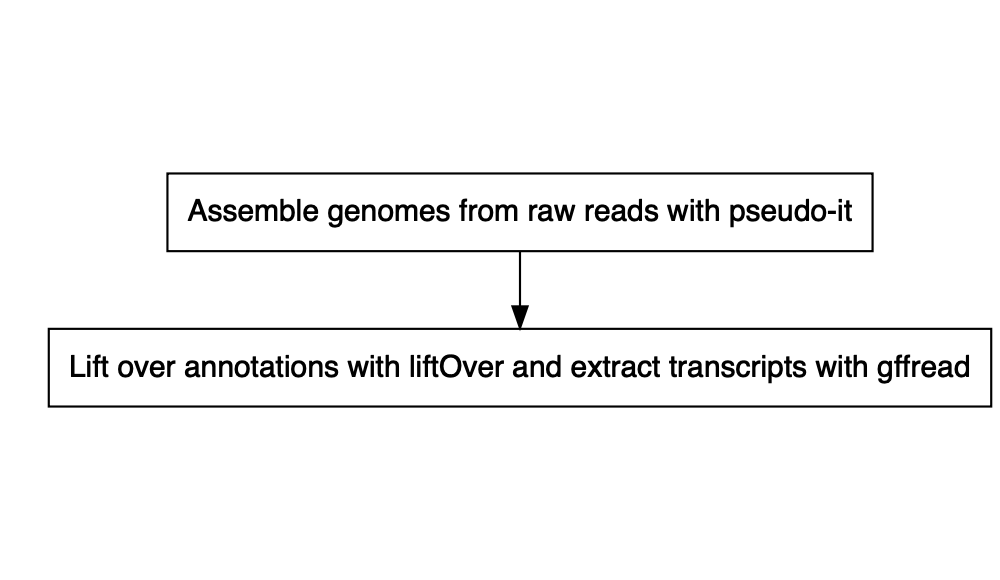
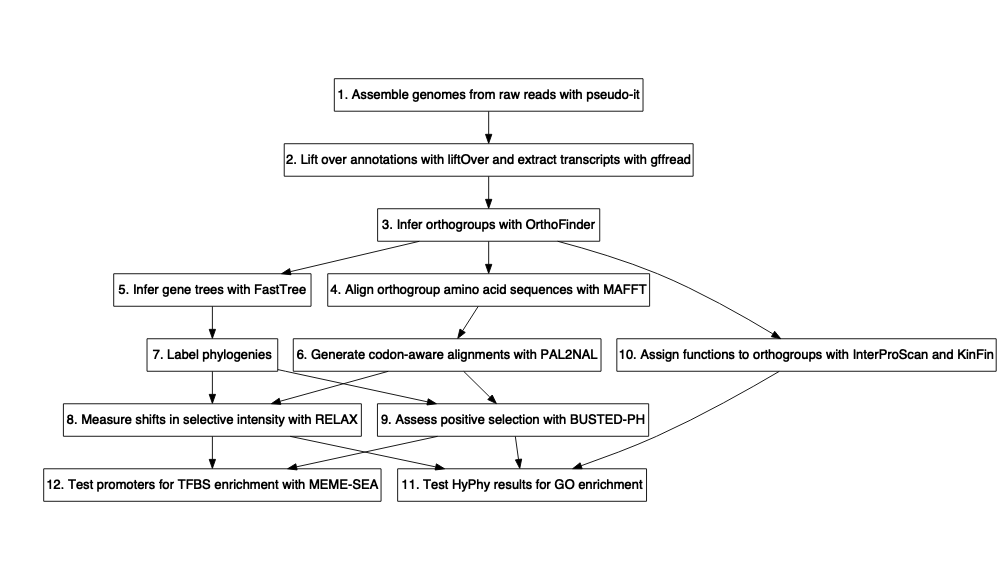
Updating ReadMe flowchart.

Changed region(s): [[0.031, 0.3414, 1.0, 0.869], [0.155, 0.1241, 0.868, 0.3103]]

diff --git a/README.md b/README.md
@@ -26,7 +26,7 @@ repository:
 
 [![DOI](https://zenodo.org/badge/520512524.svg)](https://zenodo.org/badge/latestdoi/520512524)
 
-## Reference-guided genome assembly
+## 1\. Reference-guided genome assembly
 
 Reference-guided genome assembly involves mapping raw reads to a
 reference genome and generating a consensus sequence. We will do this
@@ -66,17 +66,18 @@ implements:
   - Li, Heng. “Tabix: fast retrieval of sequence features from generic
     TAB-delimited files.” Bioinformatics 27.5 (2011): 718-719.
 
-## Processing assembled genomes
+## 2\. Processing assembled genomes
 
 Once genomes are assembled to the reference, we want to identify gene
 sequences in those new genomes. To do this, we will lift over the
 reference annotation onto the new genomes, and extract transcript
-sequences. You can do this using the R script `./Scripts/gffread/`,
-which uses liftOver to lift over the annotation, gffread to extract
-transcript sequences, extracts CDS sequences, and also translates the
-CDS sequences for input to OrthoFinder. The results of this step will be
-in `./02_annotationsAndExons/`, which contains a single directory for
-each species.
+sequences. You can do this using the R script
+`./Scripts/gffreadScript.R`, which uses liftOver to lift over the
+annotation, gffread to extract transcript sequences, extracts CDS
+sequences, and also translates the CDS sequences for input to
+OrthoFinder. The results of this step will be in
+`./02_annotationsAndExons/`, which contains a single directory for each
+species.
 
 If you use this script, please cite:
 
@@ -90,15 +91,15 @@ If you use this script, please cite:
 Now, we can move on to using our gene sequences to understand how
 genomes are evolving in association with a phenotype of interest.
 
-### Identifying orthogroups with OrthoFinder
+### 3\. Identifying orthogroups with OrthoFinder
 
 The first step in doing so is to identify groups of orthologous genes,
 eg. genes which are descended from a single gene in the last common
 ancestor of your species. We’ll do this with OrthoFinder, running on the
-amino acid sequences generated by `./Scripts/gffread/`. We will also an
-outgroup in our analysis, to improve orthogroup inference accuracy. This
-component is currently hard-coded, on lines 25-27 of the script
-`./Scripts/runOrthofinder`.
+amino acid sequences generated by `./Scripts/gffreadScript.R`. We will
+also an outgroup in our analysis, to improve orthogroup inference
+accuracy. This component is currently hard-coded, on lines 25-27 of the
+script `./Scripts/runOrthofinder`.
 
 You can run OrthoFinder on your list of samples with the script
 `./Scripts/runOrthofinder`, which takes two inputs:
@@ -121,7 +122,7 @@ If you use the species tree in your work then please also cite:
 
 ### Producing nucleotide alignments and labelled gene trees
 
-#### Aligning orthogroup sequences and inferring gene trees
+#### 4 & 5. Aligning orthogroup sequences and inferring gene trees
 
 We need to align the orthogroup sequences, and then infer a gene tree
 for each orthogroup. You can do this using the script
@@ -143,7 +144,7 @@ If you use this script, please cite:
     2–approximately maximum-likelihood trees for large alignments.”
     PloS one 5.3 (2010): e9490.
 
-#### Producing codon-aware nucleotide sequence alignments
+#### 6\. Producing codon-aware nucleotide sequence alignments
 
 Now that we have aligned amino acid sequences, we need to use them to
 align our nucleotide sequences in a codon-aware fashion. You can do this
@@ -157,7 +158,7 @@ If you use this script, please cite:
     conversion of protein sequence alignments into the corresponding
     codon alignments. Nucleic Acids Res. 34, W609-W612.
 
-#### Labelling phylogenies with foreground species and nodes
+#### 7\. Labelling phylogenies with foreground species and nodes
 
 The Hyphy analyses will need labelled gene trees for each orthogroup,
 with the tips (and internal nodes, if appropriate) that possess your
@@ -169,7 +170,7 @@ be found in the directory `07_labelledPhylogenies`.
 
 ### Evolutionary analyses in Hyphy
 
-#### Assessing shifts in selection intensity with RELAX
+#### 8\. Assessing shifts in selection intensity with RELAX
 
 RELAX is a method from HYPHY that asks whether the strength of natural
 selection has been increased or decreased along test branches. In order
@@ -194,7 +195,7 @@ If you use this script, please cite:
     phylogenetic framework.” Molecular biology and evolution 32.3
     (2015): 820-832.
 
-#### Assessing positive selection with BUSTED-PH
+#### 9\. Assessing positive selection with BUSTED-PH
 
 BUSTED-PH is a fairly new method from HYPHY that asks whether positive
 selection is associated with the presence or absence of a trait. In
@@ -218,7 +219,7 @@ Please check the
 [GitHub](https://github.com/veg/hyphy-analyses/tree/master/BUSTED-PH) to
 see if the method has been published, and cite accordingly.
 
-### Functionally annotating orthogroups
+### 10\. Functionally annotating orthogroups
 
 It may be interesting to assess GO term enrichment in the orthogroups
 under various selective regimes. To do this, orthogroups must be
@@ -238,14 +239,19 @@ If you use this script, please cite:
     2022, (doi: 10.1093/nar/gkac993)
   - Laetsch DR and Blaxter ML, 2017. KinFin: Software for Taxon-Aware
     Analysis of Clustered Protein Sequences. G3: Genes, Genomes,
-    Genetics.
-<Doi:10.1534/g3.117.300233>
+    Genetics. <Doi:10.1534/g3.117.300233>
+
+#### 11\. Testing HYPHY results for GO enrichment
+
+The results of the HYPHY analyses can be test for GO term enrichment
+with the script
+`./Scripts/parsingHYPHYResults.R`.
 
 ### Exploring evolution in non-coding elements
 
 <https://onlinelibrary.wiley.com/doi/full/10.1111/mec.15982>
 
-#### Are the promoters of genes under selection enriched for particular transcription factor binding motifs?
+#### 12\. Are the promoters of genes under selection enriched for particular transcription factor binding motifs?
 
 Perhaps the genes that are under a particular selective regime are more
 likely than other to be regulated by a particular transcription factor.
